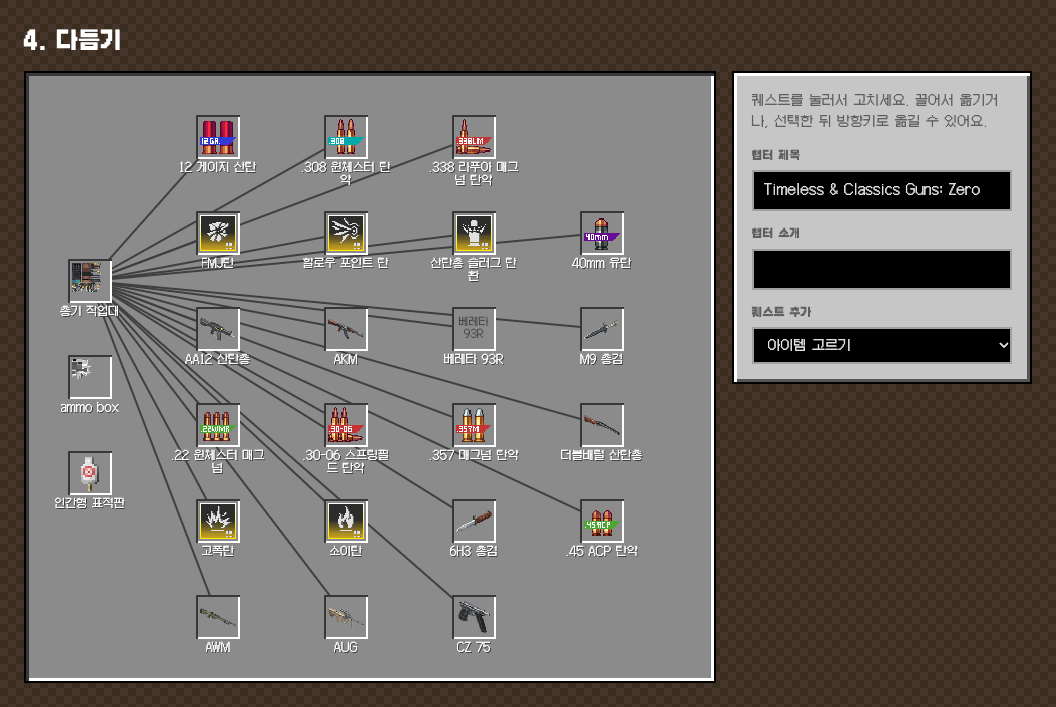
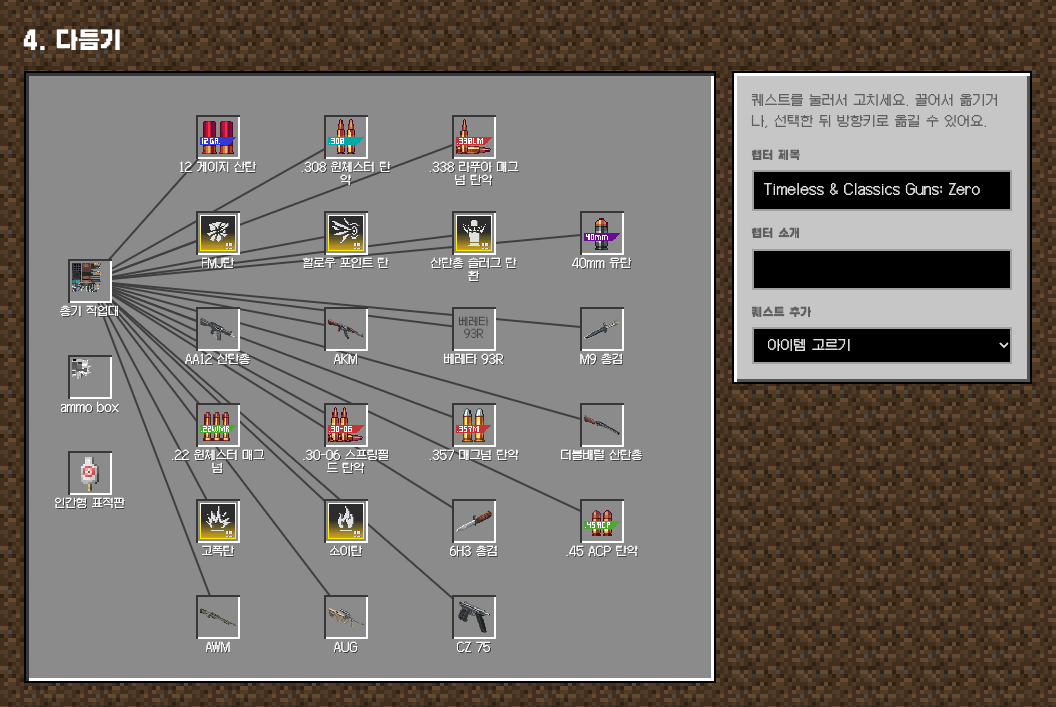
feat: Minecraft hotbar theme switcher and Book and Quill theme
The theme switcher is now the in-game HUD: hearts, hunger, an XP bar that
fills while Quill works, and a hotbar whose items (grass block, book, map)
pick the theme. Keys 1-3 work as in game. The book theme turns the whole
page into one Book and Quill page, and the GUI theme sits on grass and dirt.

diff --git a/app/globals.css b/app/globals.css
@@ -1,12 +1,15 @@
 /* Three themes share one structure; each theme only swaps tokens plus a few shape rules below.
-   gui   = Minecraft inventory window (default)
-   quest = FTB Quests book screen
-   book  = enchanted book on parchment */
+   gui   = Minecraft inventory window over a grass and dirt background (default)
+   book  = the Book and Quill screen: cream pages with the red binding
+   quest = FTB Quests map screen
+   Theme art lives in public/theme/ (cut from Minecraft screenshots at their native pixel size). */
 
 :root,
 [data-theme="gui"] {
   --page: #3b2c20;
-  --page-pattern: repeating-conic-gradient(#46352a 0 25%, #3b2c20 0 50%) 0 0 / 16px 16px;
+  /* one row of grass-block sides along the top, darkened dirt below, like Minecraft's menu screens */
+  --page-pattern: url(/theme/grass-side.png) repeat-x 0 0 / 64px 64px, url(/theme/dirt.png) repeat 0 64px / 64px 40px;
+  --attach: scroll;
   --panel: #c6c6c6;
   --panel-hi: #ffffff;
   --panel-lo: #555555;
@@ -27,6 +30,7 @@
 [data-theme="quest"] {
   --page: #11131a;
   --page-pattern: radial-gradient(#262a36 1px, transparent 1px) 0 0 / 24px 24px;
+  --attach: fixed;
   --panel: #1a1d26;
   --panel-hi: #2f3544;
   --panel-lo: #2f3544;
@@ -45,29 +49,32 @@
 }
 
 [data-theme="book"] {
-  --page: #22162e;
-  --page-pattern: radial-gradient(ellipse at 50% 0%, #3c2457 0, transparent 70%);
-  --panel: #efe3c2;
-  --panel-hi: #8a6b3f;
-  --panel-lo: #8a6b3f;
-  --slot: #e2d1a6;
-  --slot-hi: #b89c6a;
-  --slot-lo: #b89c6a;
-  --ink: #3a2814;
-  --muted: #7a6448;
-  --on-page: #f3e6ff;
-  --accent: #a46cff;
-  --bad: #b3261e;
+  --page: #1d140e;
+  --page-pattern: radial-gradient(ellipse at 50% 30%, #3a2618 0, transparent 75%);
+  --attach: fixed;
+  --panel: #fdf6e6;
+  --panel-hi: #6b2f1c;
+  --panel-lo: #6b2f1c;
+  --slot: #f1e6c8;
+  --slot-hi: #c3aa7c;
+  --slot-lo: #c3aa7c;
+  --ink: #111111;
+  --muted: #6d5b45;
+  --on-page: #111111; /* headings are written on the page, not on the dark background */
+  --accent: #c62a1f;
+  --bad: #c62a1f;
   --ok: #3c6e2f;
-  --font-body: "Nanum Myeongjo", serif;
-  --font-head: "Nanum Myeongjo", serif;
-  --body-size: 15px;
+  --font-body: "Galmuri11", "Pretendard Variable", system-ui, sans-serif;
+  --font-head: "Galmuri11 Bold", "Galmuri11", system-ui, sans-serif;
+  --body-size: 13px;
 }
 
 * { box-sizing: border-box; }
-html { background: var(--page-pattern), var(--page); background-attachment: fixed; color: var(--ink); }
+html { background: var(--page-pattern), var(--page); background-attachment: var(--attach, fixed); color: var(--ink); image-rendering: pixelated; }
+img { image-rendering: auto; }
 body { margin: 0; font-family: var(--font-body); font-size: var(--body-size); line-height: 1.6; min-height: 100dvh; }
-main { max-width: 1040px; margin: 0 auto; padding: 48px 16px 96px; }
+main { max-width: 1040px; margin: 0 auto; padding: 48px 16px 180px; } /* bottom room for the hotbar */
+[data-theme="gui"] main { padding-top: 104px; } /* start below the grass row */
 button { font: inherit; color: inherit; cursor: pointer; }
 :focus-visible { outline: 3px solid var(--accent); outline-offset: 2px; }
 .muted { color: var(--muted); }
@@ -76,9 +83,6 @@ button { font: inherit; color: inherit; cursor: pointer; }
 header { display: flex; flex-wrap: wrap; align-items: flex-end; justify-content: space-between; gap: 16px; margin-bottom: 24px; color: var(--on-page); }
 h1 { font-family: var(--font-head); font-size: 66px; line-height: 1; margin: 0; font-weight: 800; }
 .lede { margin: 10px 0 0; max-width: 52ch; opacity: 0.85; }
-.themes { display: flex; gap: 6px; }
-.themes button { padding: 6px 14px; border: 2px solid currentColor; background: transparent; color: var(--on-page); opacity: 0.6; }
-.themes button[aria-checked="true"] { opacity: 1; background: var(--on-page); color: var(--page); }
 
 /* panel: the window every block of content sits in */
 .panel { display: block; background: var(--panel); color: var(--ink); padding: 18px; }
@@ -232,7 +236,7 @@ button:disabled { opacity: 0.5; cursor: not-allowed; }
 [data-theme="gui"] .slot { box-shadow: inset 2px 2px 0 var(--slot-lo), inset -2px -2px 0 var(--slot-hi); }
 [data-theme="gui"] h1 { text-shadow: 4px 4px 0 #3f3f3f; }
 [data-theme="gui"] .xp { box-shadow: inset 2px 2px 0 var(--slot-lo); background: #1d1d1d; }
-[data-theme="gui"] :is(button.primary, .button-like, .status button, .tabs button, .themes button):hover { background: #7e86c4; color: #fff; }
+[data-theme="gui"] :is(button.primary, .button-like, .status button, .tabs button):hover { background: #7e86c4; color: #fff; }
 [data-theme="gui"] :is(button.primary, .button-like, .status button) {
   background: #6f6f6f; color: #fff; border: 2px solid #000; box-shadow: inset 2px 2px 0 #aaa, inset -2px -2px 0 #444; text-shadow: 1px 1px 0 #3f3f3f;
 }
@@ -252,26 +256,101 @@ button:disabled { opacity: 0.5; cursor: not-allowed; }
 [data-theme="quest"] .arrow { width: 32px; height: 2px; clip-path: none; background: var(--slot-hi); }
 [data-theme="quest"] :is(button.primary, .button-like, .status button) { background: var(--accent); color: #11131a; border-radius: 6px; }
 [data-theme="quest"] :is(input:not([type]), input[type="number"], input[type="password"], select, textarea, .chip) { border-radius: 6px; border: 1px solid var(--slot-hi); }
-[data-theme="quest"] .tabs button, [data-theme="quest"] .themes button { border-radius: 6px; }
+[data-theme="quest"] .tabs button { border-radius: 6px; }
 [data-theme="quest"] .map { background: var(--page-pattern), #0d0f14; }
 [data-theme="quest"] .xp { border-radius: 5px; overflow: hidden; }
 [data-theme="quest"] .count { text-shadow: 0 0 3px #000, 0 0 3px #000; }
 
-/* ---- book: parchment pages, the crafted result glints like an enchanted item ---- */
-[data-theme="book"] .panel { border: 4px double var(--panel-hi); border-radius: 3px; box-shadow: 0 10px 30px #0006; }
-[data-theme="book"] .slot { border: 1px solid var(--slot-hi); border-radius: 4px; }
-[data-theme="book"] .slot.big {
-  border-color: var(--accent);
-  background: linear-gradient(115deg, var(--slot) 30%, #d9b8ff 45%, var(--slot) 60%) 0 0 / 300% 100%;
-  animation: glint 3.5s linear infinite;
+/* ---- book: the whole page is one Book and Quill page, and everything is written on it ---- */
+[data-theme="book"] main {
+  max-width: 980px; margin: 32px auto 0; padding: 40px 72px 72px 60px; position: relative;
+  border-style: solid;
+  border-width: 24px 60px 64px 44px; /* the page art at 2x, so the binding rings read like in game */
+  /* edges repeat (the binding rings), the paper in the middle stretches so it has no seams */
+  border-image: url(/theme/page.png) 12 30 32 22 / 24px 60px 64px 44px round;
+  background: url(/theme/page-fill.png) 0 0 / 100% 100% padding-box;
+  filter: drop-shadow(0 18px 40px #000a);
+  image-rendering: auto; /* the paper is stretched a lot; pixelated scaling turns it into stripes */
 }
-[data-theme="book"] h1 { font-style: italic; letter-spacing: -0.02em; text-shadow: 0 0 24px var(--accent); }
-[data-theme="book"] :is(button.primary, .button-like, .status button) { border-radius: 3px; }
-[data-theme="book"] :is(input:not([type]), input[type="number"], input[type="password"], select, textarea) { border: 1px solid var(--slot-hi); border-radius: 3px; }
-[data-theme="book"] .map-lines line { stroke: #b89c6a; }
-[data-theme="book"] .xp { border-radius: 5px; overflow: hidden; }
-@keyframes glint { from { background-position: 100% 0; } to { background-position: -50% 0; } }
-@media (prefers-reduced-motion: reduce) { [data-theme="book"] .slot.big { animation: none; } }
+[data-theme="book"] body { padding-bottom: 150px; } /* room for the hotbar below the book */
+/* the page counter in the top right of the book screen */
+[data-theme="book"] main::before {
+  content: "Page 1 of 1"; position: absolute; top: 4px; right: 8px;
+  font-family: "Galmuri11", system-ui, sans-serif; font-size: 13px; color: var(--ink);
+}
+/* blinking cursor after the last line, like an unsigned book */
+[data-theme="book"] main::after {
+  content: "_"; display: block; margin-top: 8px; font-family: "Galmuri11", system-ui, sans-serif; animation: cursor 1s steps(1) infinite;
+}
+@keyframes cursor { 50% { opacity: 0; } }
+@media (prefers-reduced-motion: reduce) { [data-theme="book"] main::after { animation: none; } }
+
+/* panels dissolve into plain writing on the page */
+[data-theme="book"] .panel { background: none; padding: 0; border: 0; box-shadow: none; }
+[data-theme="book"] section { margin-top: 32px; }
+[data-theme="book"] :is(.status, .found, .activity) { padding: 10px 0; border-block: 2px dashed var(--slot-hi); }
+[data-theme="book"] .drop { padding: 12px 0; }
+[data-theme="book"] .mod summary.panel { padding: 6px 0; border-bottom: 1px dashed var(--slot-hi); }
+[data-theme="book"] .recipes { gap: 20px 28px; }
+[data-theme="book"] .recipe { padding-bottom: 12px; border-bottom: 1px dashed var(--slot-hi); }
+[data-theme="book"] h1 { color: var(--ink); text-shadow: none; }
+[data-theme="book"] .step { color: var(--ink); }
+[data-theme="book"] .slot { background: var(--slot); box-shadow: inset 1px 1px 0 var(--slot-hi), inset -1px -1px 0 #fff8; }
+[data-theme="book"] .slot.big { box-shadow: 0 0 0 2px var(--accent); }
+[data-theme="book"] :is(button.primary, .button-like, .status button, .tabs button) {
+  background: #6f6f6f; color: #fff; border: 2px solid #000; border-radius: 0;
+  box-shadow: inset 2px 2px 0 #aaa, inset -2px -2px 0 #444; text-shadow: 1px 1px 0 #3f3f3f;
+}
+[data-theme="book"] :is(button.primary, .button-like, .status button, .tabs button):hover { background: #7e86c4; }
+[data-theme="book"] .tabs button[aria-selected="true"] { background: #a0a0a0; }
+[data-theme="book"] :is(input:not([type]), input[type="number"], input[type="password"], select, textarea) {
+  background: transparent; border: 0; border-bottom: 2px solid var(--slot-hi); padding-inline: 0;
+}
+[data-theme="book"] .map { background: none; border: 1px dashed var(--slot-hi); }
+[data-theme="book"] .editor { padding-left: 16px; border-left: 2px dashed var(--slot-hi); }
+[data-theme="book"] .map-lines line { stroke: #b49a6c; }
+[data-theme="book"] .map-lines line.hot { stroke: var(--accent); }
+[data-theme="book"] .xp { background: #e4d6b2; }
+@media (max-width: 600px) {
+  [data-theme="book"] main { margin-top: 12px; padding: 28px 8px 48px 4px; border-width: 12px 30px 32px 22px; border-image-width: 12px 30px 32px 22px; }
+}
+
+/* ---- HUD: hearts, hunger, XP and the hotbar, fixed at the bottom like in game ---- */
+.hud {
+  --px: 2px; /* one Minecraft GUI pixel */
+  position: fixed; left: 50%; bottom: 8px; transform: translateX(-50%); z-index: 10;
+  display: flex; flex-direction: column; align-items: center; image-rendering: pixelated;
+}
+.hud-label {
+  font-family: "Galmuri11", system-ui, sans-serif; font-size: 14px; color: #fff; text-shadow: 2px 2px 0 #3f3f3f;
+  margin-bottom: 6px; min-height: 1.2em; opacity: 0; transition: opacity 0.4s;
+}
+.hud-label.show { opacity: 1; transition: none; }
+.hud-top { position: relative; width: calc(185 * var(--px)); height: calc(16 * var(--px)); background: url(/theme/hud.png) 0 0 / 100% 100%; }
+/* the XP bar's inner track, filled while Quill works */
+.hud-xp {
+  position: absolute; left: calc(3 * var(--px)); top: calc(12 * var(--px)); height: calc(3 * var(--px));
+  max-width: calc(179 * var(--px)); background: #80ff20; box-shadow: 0 calc(-1 * var(--px)) 0 #b6ff71 inset;
+  transition: width 0.4s steps(8);
+}
+.hotbar {
+  display: flex; margin-top: var(--px); padding-right: var(--px);
+  background: linear-gradient(#000, #000) right / var(--px) 100% no-repeat; /* the last slot's right edge */
+}
+.hotbar-slot {
+  position: relative; width: calc(20 * var(--px)); height: calc(21 * var(--px)); padding: 0; border: 0;
+  background: url(/theme/slot.png) 0 0 / 100% 100%, rgb(139 139 139 / 0.92); /* opaque enough that the page doesn't show through */
+  display: grid; place-items: center;
+}
+button.hotbar-slot { cursor: pointer; }
+.hotbar-slot img { width: calc(16 * var(--px)); height: calc(16 * var(--px)); margin: var(--px) 0 0 var(--px); image-rendering: pixelated; pointer-events: none; }
+.hotbar-slot img[src$="grass.png"] { image-rendering: auto; }
+.hotbar-slot[aria-checked="true"]::after {
+  content: ""; position: absolute; left: calc(-2 * var(--px)); top: calc(-1 * var(--px));
+  width: calc(24 * var(--px)); height: calc(23 * var(--px)); background: url(/theme/selected.png) 0 0 / 100% 100%;
+}
+.hotbar-slot:focus-visible { outline: 2px solid #fff; outline-offset: 2px; z-index: 1; }
+@media (max-width: 400px) { .hud { --px: 1.75px; image-rendering: auto; } }
 
 @media (max-width: 760px) {
   .map-wrap { grid-template-columns: 1fr; }

diff --git a/app/components/Hotbar.tsx b/app/components/Hotbar.tsx
@@ -1,0 +1,68 @@
+"use client";
+
+import { useEffect, useRef, useState } from "react";
+
+// Theme switcher drawn as the Minecraft HUD: hearts, hunger, XP bar and a 9-slot hotbar.
+// Slot items pick the theme; 1-3 on the keyboard work like in game. The XP bar fills while Quill works.
+
+export const THEMES = [
+  { id: "gui", name: "마인크래프트 GUI", icon: "/theme/grass.png" },
+  { id: "book", name: "책과 깃펜", icon: "/theme/book.png" },
+  { id: "quest", name: "FTB 퀘스트 맵", icon: "/theme/map.png" },
+] as const;
+
+const SLOTS = 9;
+
+export function Hotbar({ theme, onPick, progress }: { theme: string; onPick: (id: string) => void; progress: number }) {
+  const [label, setLabel] = useState<string>();
+  const timer = useRef<ReturnType<typeof setTimeout>>(undefined);
+
+  function pick(id: string) {
+    onPick(id);
+    // Minecraft shows the held item's name above the hotbar for a moment.
+    setLabel(THEMES.find((t) => t.id === id)?.name);
+    clearTimeout(timer.current);
+    timer.current = setTimeout(() => setLabel(undefined), 1800);
+  }
+
+  useEffect(() => {
+    const onKey = (e: KeyboardEvent) => {
+      const typing = e.target instanceof Element && e.target.closest("input, textarea, select, [contenteditable]");
+      if (e.metaKey || e.ctrlKey || e.altKey || typing) return;
+      const t = THEMES[Number(e.key) - 1];
+      if (t) pick(t.id);
+    };
+    window.addEventListener("keydown", onKey);
+    return () => window.removeEventListener("keydown", onKey);
+  });
+
+  return (
+    <nav className="hud" aria-label="테마">
+      <span className={`hud-label${label ? " show" : ""}`} aria-live="polite">
+        {label}
+      </span>
+      <div className="hud-top" aria-hidden>
+        <span className="hud-xp" style={{ width: `${Math.round(progress * 100)}%` }} />
+      </div>
+      <div className="hotbar" role="radiogroup" aria-label="테마 고르기 (숫자 키 1-3)">
+        {Array.from({ length: SLOTS }, (_, i) => {
+          const t = THEMES[i];
+          if (!t) return <span key={i} className="hotbar-slot" aria-hidden />;
+          return (
+            <button
+              key={t.id}
+              className="hotbar-slot"
+              role="radio"
+              aria-checked={theme === t.id}
+              aria-label={`${i + 1}. ${t.name}`}
+              title={t.name}
+              onClick={() => pick(t.id)}
+            >
+              <img src={t.icon} alt="" draggable={false} />
+            </button>
+          );
+        })}
+      </div>
+    </nav>
+  );
+}

diff --git a/app/page.tsx b/app/page.tsx
@@ -11,14 +11,9 @@ import { buildTree, newId } from "@/lib/tree";
 import type { Chapter, Recipe, Settings } from "@/lib/types";
 import { vanillaIcons, vanillaNames } from "@/lib/vanilla";
 import { Activity, MapSkeleton, type ActivityState, type Job } from "./components/Activity";
+import { Hotbar } from "./components/Hotbar";
 import { QuestMap } from "./components/QuestMap";
 import { bare, Slot, type Lookup } from "./components/Slot";
-
-const THEMES = [
-  { id: "gui", label: "GUI" },
-  { id: "quest", label: "퀘스트" },
-  { id: "book", label: "책" },
-] as const;
 
 const DEFAULT_SETTINGS: Settings = { version: "1.20.1", lang: "ko", maxQuests: 25, reward: "normal" };
 
@@ -279,6 +274,9 @@ export default function Home() {
   }
 
   const recipeCount = Object.values(recipes).reduce((n, r) => n + r.length, 0);
+  const xp = activity?.jobs.length
+    ? activity.jobs.filter((j) => j.state !== "wait" && j.state !== "run").length / activity.jobs.length
+    : 0;
   const chapter = chapters[active];
   const chapterMod = chapter && modOfChapter(chapter);
   const addable = chapter && chapterMod
@@ -289,18 +287,12 @@ export default function Home() {
     : [];
 
   return (
+    <>
     <main>
       <header>
         <div>
           <h1>Quill</h1>
           <p className="lede">모드 jar를 넣으면 레시피를 읽어서 FTB 퀘스트 챕터를 만들어 줘요.</p>
-        </div>
-        <div className="themes" role="radiogroup" aria-label="테마">
-          {THEMES.map((t) => (
-            <button key={t.id} role="radio" aria-checked={theme === t.id} onClick={() => pickTheme(t.id)}>
-              {t.label}
-            </button>
-          ))}
         </div>
       </header>
 
@@ -558,5 +550,8 @@ export default function Home() {
         </section>
       )}
     </main>
+    {/* outside <main>: the book theme's drop-shadow filter would otherwise trap position: fixed */}
+    <Hotbar theme={theme} onPick={pickTheme} progress={xp} />
+    </>
   );
 }

diff --git a/app/layout.tsx b/app/layout.tsx
@@ -19,7 +19,6 @@ export default function RootLayout({ children }: LayoutProps<"/">) {
           rel="stylesheet"
           href="https://cdn.jsdelivr.net/gh/orioncactus/pretendard@v1.3.9/dist/web/variable/pretendardvariable-dynamic-subset.min.css"
         />
-        <link rel="stylesheet" href="https://fonts.googleapis.com/css2?family=Nanum+Myeongjo:wght@400;700;800&display=swap" />
       </head>
       <body>{children}</body>
     </html>
